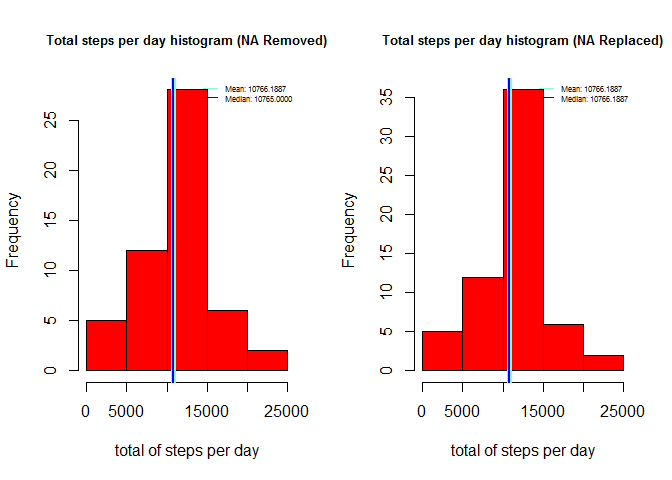
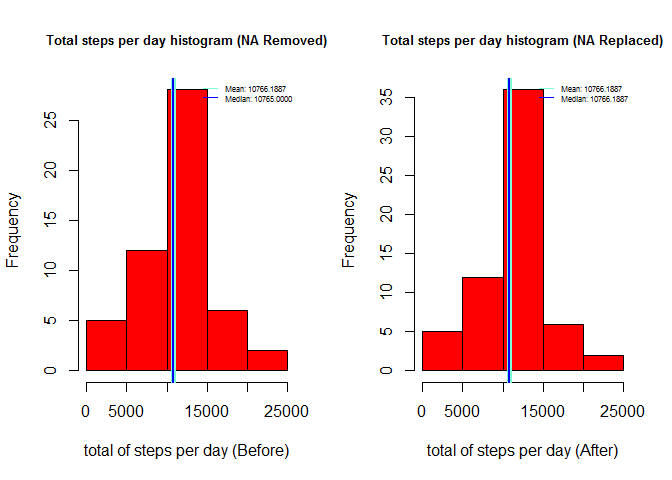
Added more comments

Changed region(s): [[0.125, 0.9062, 0.4375, 0.9688], [0.625, 0.9062, 0.9375, 0.9688]]

diff --git a/PA1_template.html b/PA1_template.html
@@ -136,7 +136,8 @@ xyplot(steps~interval, data=intervalStepMeans, layout = c(1,1),scales = list(x=l
 <h2>Imputing missing values</h2>
 <p>Calculating missing values</p>
 <pre class="r"><code>missingValues&lt;- sum( is.na(data$steps))</code></pre>
-<p>In the dataset were found <strong>2304</strong> values. In order to replace the missing values, it will be used the Mean value for each time interval.</p>
+<p>In the dataset were found <strong>2304</strong> values.</p>
+<p>In order to replace the missing values, it is used the <strong>Mean value for each time interval across the days</strong>. It is expected that the mean is not affected, but some other minors effect could appear. So in order to apply this strategy the following code is implemented:</p>
 <pre class="r"><code>data2&lt;-as.data.frame(t(apply(data,1,FUN=function(x){
   if(is.na(x[&quot;steps&quot;])){
       x[&quot;steps&quot;]&lt;-as.numeric(intervalStepMeans[intervalStepMeans[&quot;interval&quot;]==x[&quot;interval&quot;],][,&quot;steps&quot;])
@@ -148,7 +149,7 @@ xyplot(steps~interval, data=intervalStepMeans, layout = c(1,1),scales = list(x=l
 #Also the date is transformed into a POSIXlt value
 data2&lt;-transform(data2, steps = as.numeric(steps),date=strptime(date,&quot;%Y-%m-%d&quot;), interval = as.numeric(interval))</code></pre>
 <p>in order to verify how the completion of the missing values affects the data behavior, the total steps per day metrics are repeated</p>
-<p>The histogram of the new dataset with NA values replaced against the previous Histogram where the NA were removed:</p>
+<p>The histogram of the new dataset with NA values replaced (<strong>after the strategy was applied</strong>) against the previous Histogram where the NA were removed (<strong>without the strategy</strong>):</p>
 <pre class="r"><code>#Calculating the new total steps per day
 dayStepTotal2&lt;-tapply(data2$steps, as.character(data2$date),sum)
 
@@ -158,18 +159,18 @@ stepsMedian2 &lt;- median(dayStepTotal2)
 
 par(mfrow=c(1,2))
 #Plotting the previous histogram
-hist(dayStepTotal, col=&quot;red&quot;, xlab=&quot;total of steps per day&quot;, main=&quot;&quot;)
+hist(dayStepTotal, col=&quot;red&quot;, xlab=&quot;total of steps per day (Before)&quot;, main=&quot;&quot;)
 title(main = list(&quot;Total steps per day histogram (NA Removed)&quot;, cex = 0.8))
 abline(v=stepsMean,col=&quot;aquamarine&quot;,lty=1, lwd=5)
 abline(v=stepsMedian,col=&quot;blue&quot;,lty=1, lwd=2)
 legend(&quot;topright&quot;,legend = c(sprintf(&quot;Mean: %.04f&quot;,stepsMean), sprintf(&quot;Median: %.04f&quot;,stepsMedian)),col=c(&quot;aquamarine&quot;,&quot;blue&quot;), lty=1, cex=0.5, bty=&quot;n&quot;)
 #plotting the new Histogram
-hist(dayStepTotal2, col=&quot;red&quot;, xlab=&quot;total of steps per day&quot;, main=&quot;&quot;)
+hist(dayStepTotal2, col=&quot;red&quot;, xlab=&quot;total of steps per day (After)&quot;, main=&quot;&quot;)
 title(main = list(&quot;Total steps per day histogram (NA Replaced)&quot;, cex = 0.8))
 abline(v=stepsMean2,col=&quot;aquamarine&quot;,lty=1, lwd=5)
 abline(v=stepsMedian2,col=&quot;blue&quot;,lty=1, lwd=2)
 legend(&quot;topright&quot;,legend = c(sprintf(&quot;Mean: %.04f&quot;,stepsMean2), sprintf(&quot;Median: %.04f&quot;,stepsMedian2)),col=c(&quot;aquamarine&quot;,&quot;blue&quot;), lty=1, cex=0.5, bty=&quot;n&quot;)</code></pre>
[2 lines of base64/hex data omitted]
 <p>Results in <strong>Mean</strong> is: <strong>10766.1887</strong> and the <strong>Median</strong> is: <strong>10766.1887</strong></p>
 <p>Performing a comparison against the previous values obtained:</p>
 <table>
@@ -182,12 +183,12 @@ legend(&quot;topright&quot;,legend = c(sprintf(&quot;Mean: %.04f&quot;,stepsMean
 </thead>
 <tbody>
 <tr class="odd">
-<td align="left"><strong>NA Removed (Prev)</strong></td>
+<td align="left"><strong>NA Removed (Before)</strong></td>
 <td align="left"><em>10766.1887</em></td>
 <td align="left"><em>10765.0000</em></td>
 </tr>
 <tr class="even">
-<td align="left"><strong>NA Replaced (New)</strong></td>
+<td align="left"><strong>NA Replaced (After)</strong></td>
 <td align="left"><em>10766.1887</em></td>
 <td align="left"><em>10766.1887</em></td>
 </tr>

diff --git a/PA1_template.md b/PA1_template.md
@@ -120,7 +120,10 @@ missingValues<- sum( is.na(data$steps))
 ```
 
 
-In the dataset were found **2304** values. In order to replace the missing values, it will be used the Mean value for each time interval.
+In the dataset were found **2304** values.  
+
+In order to replace the missing values, it is used the **Mean value for each time interval across the days**. It is expected that the mean is not affected, but some other minors effect could appear. So in order to apply this strategy the following code is implemented:
+
 
 
 ```r
@@ -139,7 +142,7 @@ data2<-transform(data2, steps = as.numeric(steps),date=strptime(date,"%Y-%m-%d")
 in order to verify how the completion of the missing values affects the data behavior, 
 the total steps per day metrics are repeated  
 
-The histogram of the new dataset with NA values replaced against the previous Histogram where the NA were removed:
+The histogram of the new dataset with NA values replaced (**after the strategy was applied**) against the previous Histogram where the NA were removed (**without the strategy**):
 
 
 ```r
@@ -152,13 +155,13 @@ stepsMedian2 <- median(dayStepTotal2)
 
 par(mfrow=c(1,2))
 #Plotting the previous histogram
-hist(dayStepTotal, col="red", xlab="total of steps per day", main="")
+hist(dayStepTotal, col="red", xlab="total of steps per day (Before)", main="")
 title(main = list("Total steps per day histogram (NA Removed)", cex = 0.8))
 abline(v=stepsMean,col="aquamarine",lty=1, lwd=5)
 abline(v=stepsMedian,col="blue",lty=1, lwd=2)
 legend("topright",legend = c(sprintf("Mean: %.04f",stepsMean), sprintf("Median: %.04f",stepsMedian)),col=c("aquamarine","blue"), lty=1, cex=0.5, bty="n")
 #plotting the new Histogram
-hist(dayStepTotal2, col="red", xlab="total of steps per day", main="")
+hist(dayStepTotal2, col="red", xlab="total of steps per day (After)", main="")
 title(main = list("Total steps per day histogram (NA Replaced)", cex = 0.8))
 abline(v=stepsMean2,col="aquamarine",lty=1, lwd=5)
 abline(v=stepsMedian2,col="blue",lty=1, lwd=2)
@@ -174,8 +177,8 @@ Performing a comparison against the previous values obtained:
 
 | Dataset                | Mean             |Median             |
 | -----------------------|----------------- | ----------------- |
-| **NA Removed (Prev)**  | *10766.1887*  | *10765.0000* |
-| **NA Replaced (New)**  | *10766.1887* | *10766.1887*|
+| **NA Removed (Before)**  | *10766.1887*  | *10765.0000* |
+| **NA Replaced (After)**  | *10766.1887* | *10766.1887*|
 
 
 There are no variation regarding the mean value, but the Histogram and the Median were slightly modified.
